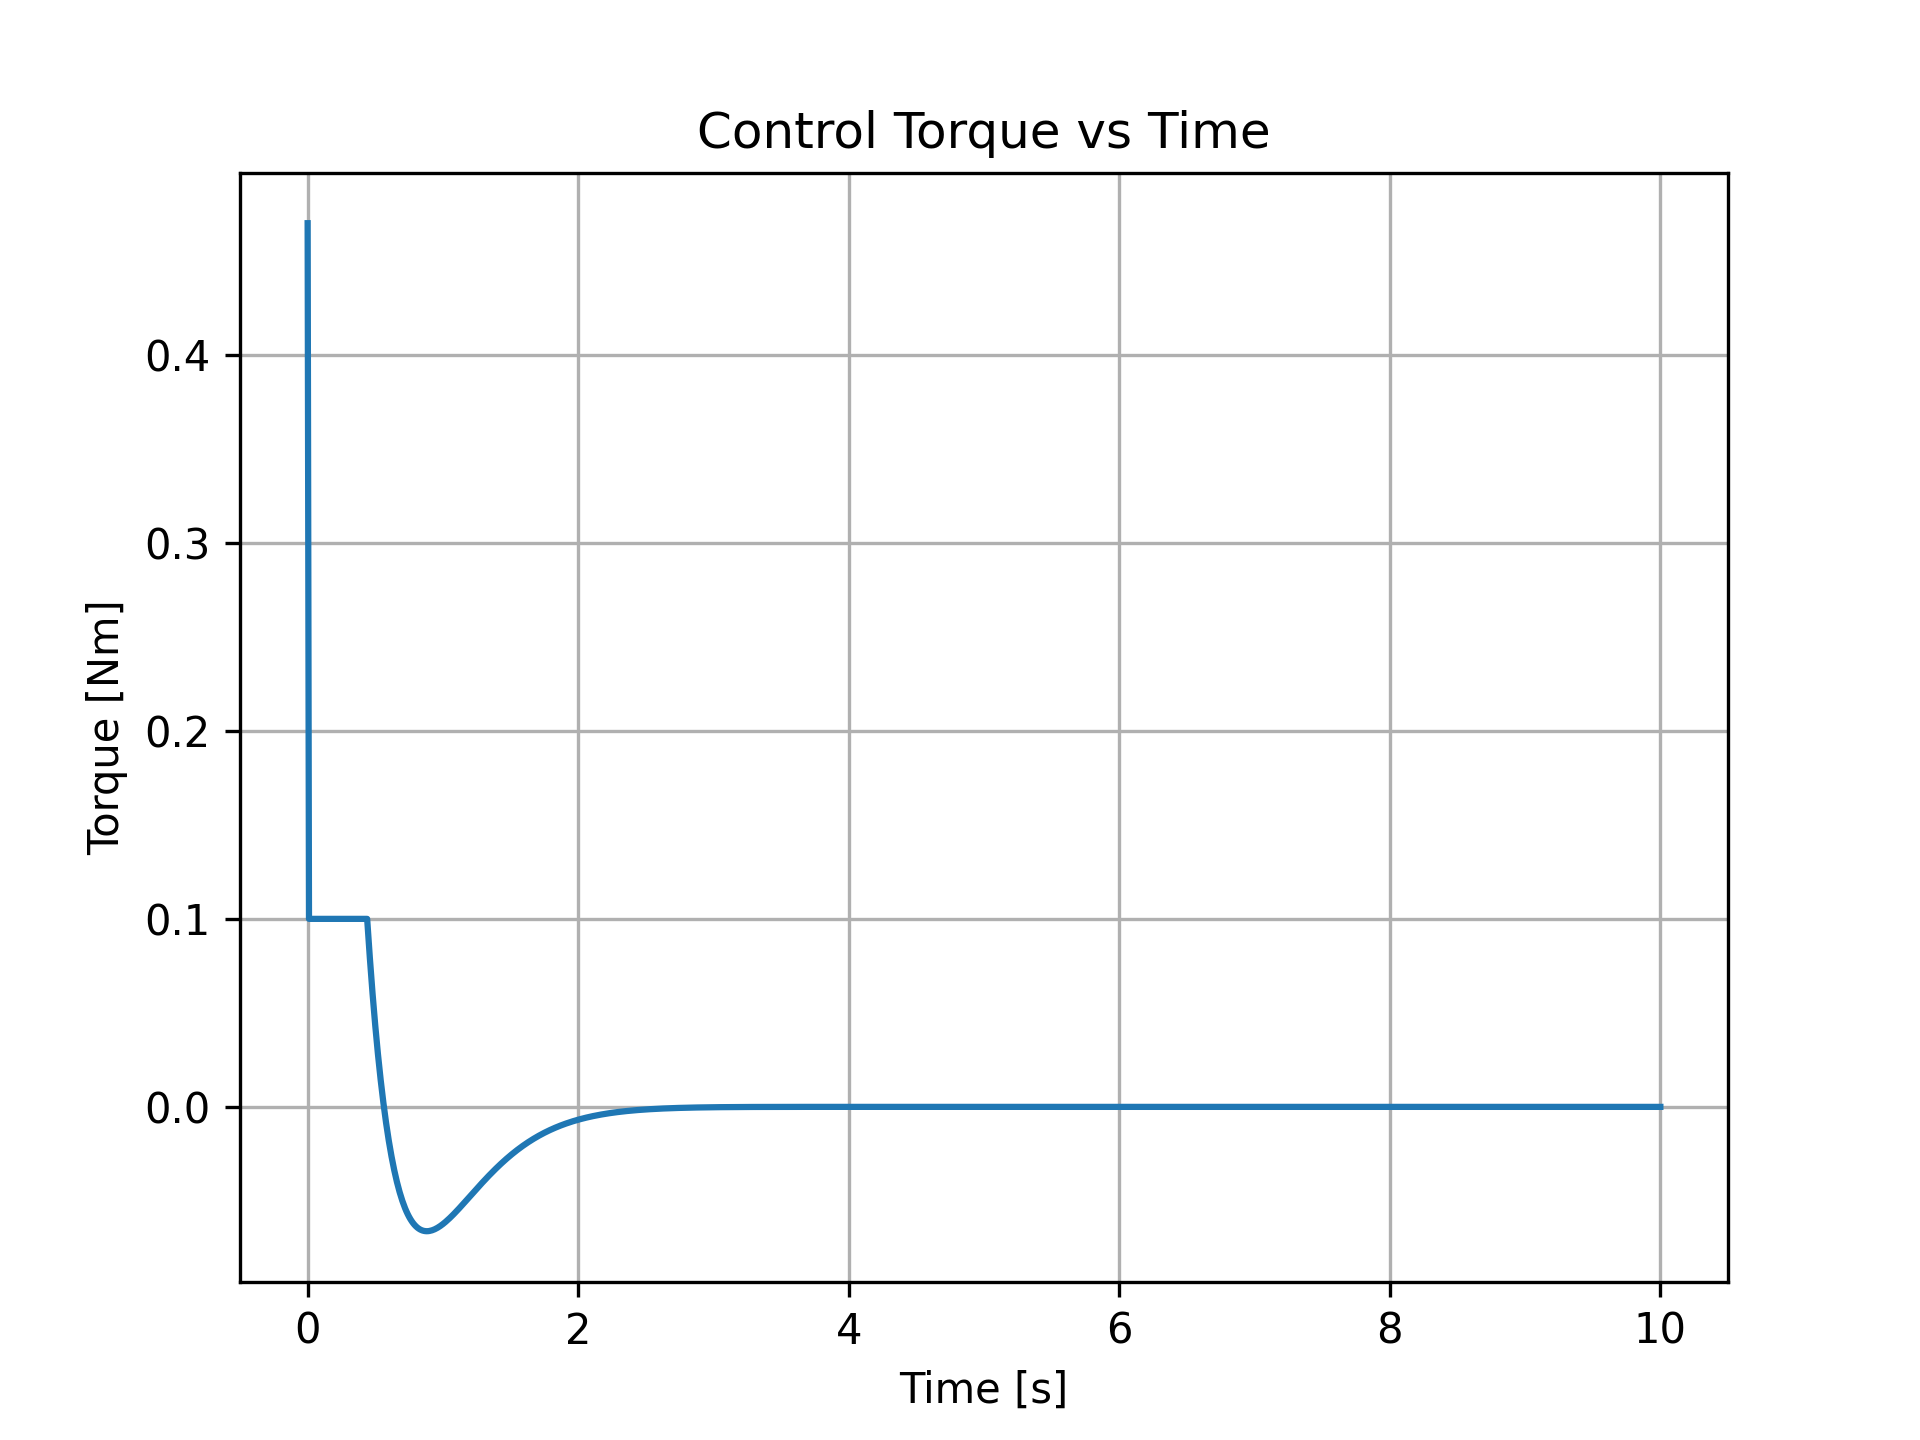
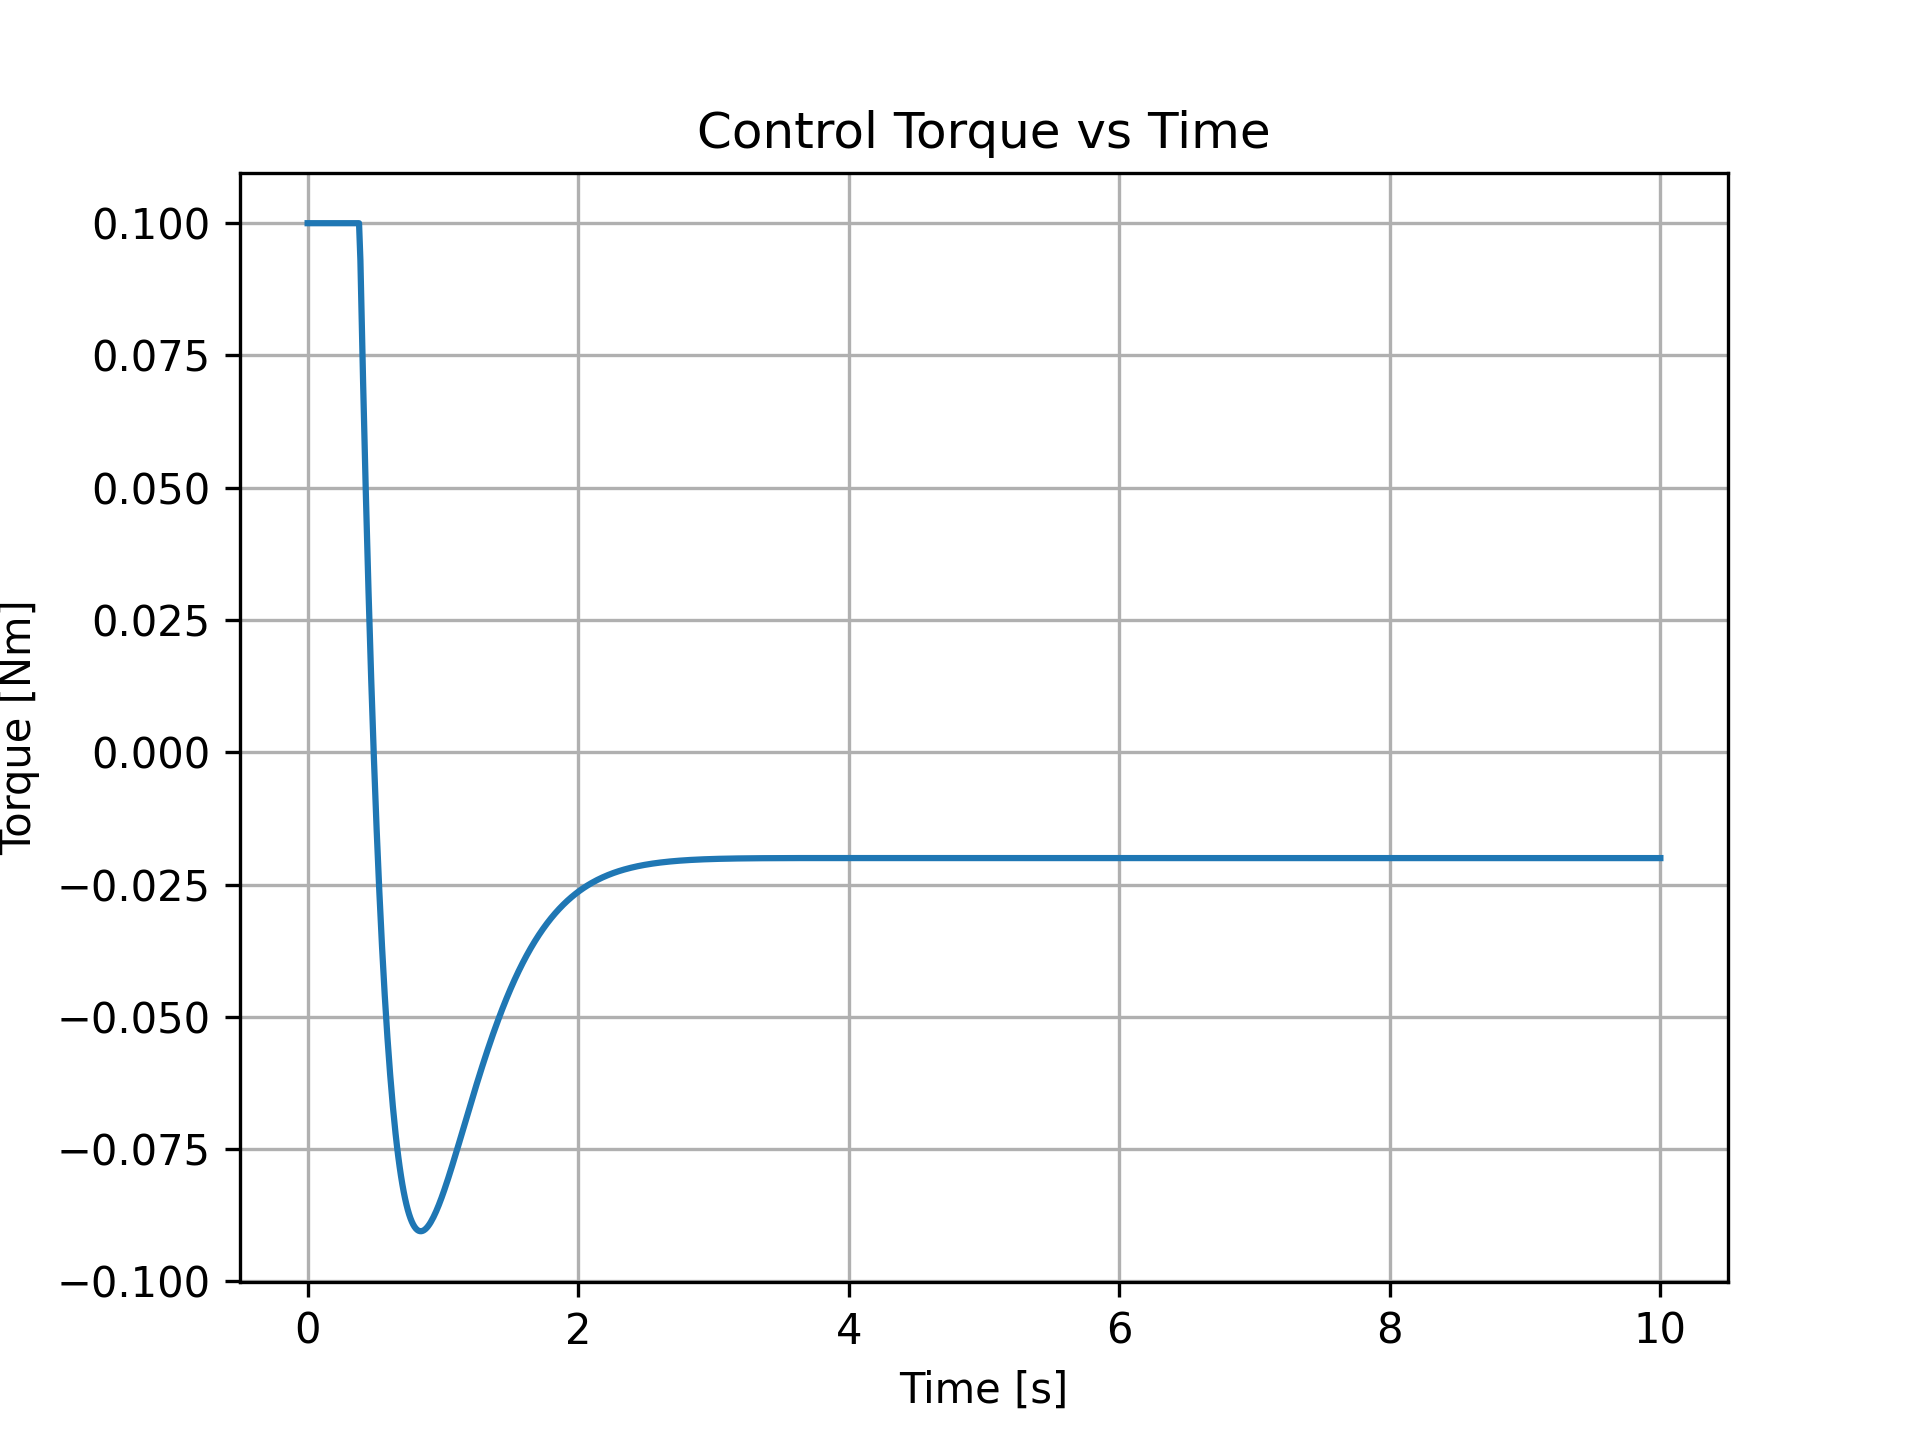
Add constant disturbance torque and observe steady-state error

diff --git a/src/config.py b/src/config.py
@@ -4,16 +4,17 @@ Simulation configuration parameters.
 This module centralizes all tunable values used by the simulator.
 """
 
-INERTIA_KGM2 = 0.05       # Moment of inertia [kg*m^2]
+INERTIA_KGM2 = 0.05             # Moment of inertia [kg*m^2]
 
-THETA0_RAD = 0.0          # Initial angular position [rad]
-OMEGA0_RAD_S = 0.1        # Initial angular velocity [rad/s]
+THETA0_RAD = 0.0                # Initial angular position [rad]
+OMEGA0_RAD_S = 0.1              # Initial angular velocity [rad/s]
 
-THETA_TARGET_RAD = 1.0    # Desired angular position [rad]
-KP = 0.5                  # Propotional gain
-KD = 0.3                  # Derivative gain
+THETA_TARGET_RAD = 1.0          # Desired angular position [rad]
+KP = 0.5                        # Propotional gain
+KD = 0.3                        # Derivative gain
 
-DT_S = 0.01               # Simulation time step [s]
-T_FINAL_S = 10.0          # Total simulation time [s]
+DT_S = 0.01                     # Simulation time step [s]
+T_FINAL_S = 10.0                # Total simulation time [s]
 
-MAX_TORQUE_NM = 0.1       # Saturation max limitation from actuator
+MAX_TORQUE_NM = 0.1             # Saturation max limitation from actuator
+DISTURBANCE_TORQUE_NM = 0.02    # Disturbance Torque

diff --git a/src/simulator.py b/src/simulator.py
@@ -7,8 +7,7 @@ Discrete-time implementation of rotational physics using Euler integration.
 
 import numpy as np
 from src.dynamics import compute_angular_acceleration
-from src.config import MAX_TORQUE_NM
-
+from src.config import MAX_TORQUE_NM, DISTURBANCE_TORQUE_NM
 
 def run_simulation(
     inertia_kgm2: float,
@@ -50,7 +49,16 @@ def run_simulation(
     omega[0] = omega0_rad_s
     
     error_hist[0] = theta_target_rad - theta[0]
-    torque_cmd[0] = kp * error_hist[0] - kd * omega[0]
+    
+    torque0 = kp * error_hist[0] - kd * omega[0]
+
+    # Apply saturation
+    if torque0 > MAX_TORQUE_NM:
+        torque0 = MAX_TORQUE_NM
+    elif torque0 < -MAX_TORQUE_NM:
+        torque0 = -MAX_TORQUE_NM
+
+    torque_cmd[0] = torque0
 
     for k in range(1, len(times)):
         error = theta_target_rad - theta[k - 1]
@@ -62,7 +70,8 @@ def run_simulation(
         elif torque < -MAX_TORQUE_NM:
             torque = -MAX_TORQUE_NM
 
-        alpha = compute_angular_acceleration(torque, inertia_kgm2)
+        net_torque = torque + DISTURBANCE_TORQUE_NM
+        alpha = compute_angular_acceleration(net_torque, inertia_kgm2)
 
         omega[k] = omega[k - 1] + alpha * dt_s
         theta[k] = theta[k - 1] + omega[k - 1] * dt_s
